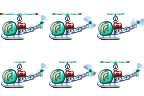
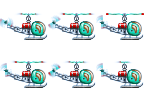
truck move added

diff --git a/src/view/gameScene/InGameView.java b/src/view/gameScene/InGameView.java
@@ -2,7 +2,12 @@ package view.gameScene;
 
 import controller.InGameController;
 import controller.MenuController;
+import javafx.animation.Animation;
+import javafx.animation.KeyFrame;
+import javafx.animation.KeyValue;
+import javafx.animation.Timeline;
 import javafx.geometry.Pos;
+import javafx.geometry.Rectangle2D;
 import javafx.scene.Group;
 import javafx.scene.Scene;
 import javafx.scene.image.Image;
@@ -51,7 +56,7 @@ public class InGameView extends Scene implements Time
     private void build() {
         root.getChildren().clear();
         root.getChildren().addAll(GameBackground.getInstance(), MapView.getInstance(), WarehouseScene.getInstance());
-        emptyWorkshopGraphic();
+//        emptyWorkshopGraphic();
         wellGraphic();
         warehouseGraphic();
         moneyGraphic();
@@ -114,7 +119,8 @@ public class InGameView extends Scene implements Time
         StackPane place6Pane = new StackPane();
         place6Pane.getChildren().addAll(place6);
         x = MainView.WIDTH - (MainView.WIDTH - place6.getImage().getWidth() * 2 + MainView.WIDTH / 3.4);
-        place6Pane.relocate(MainView.WIDTH - place6.getImage().getWidth() * 2 + x, MainView.HEIGHT / 1.6);
+        place6Pane.relocate(MainView.WIDTH - place6.getImage().getWidth() * 2 + x
+                , MainView.HEIGHT / 1.6);
         System.out.println("xxx" + (MainView.WIDTH - place6.getImage().getWidth() * 2 + MainView.WIDTH / 3.4));
         root.getChildren().addAll(place6Pane);
         place6Pane.setOnMouseClicked(event -> openWorkshopChoices(6));
@@ -296,4 +302,48 @@ public class InGameView extends Scene implements Time
 
 
     }
+
+    public void showTruckPath(){
+        ImageView truckView = new ImageView(Utility.getImage(AddressConstants.TRUCK_MINI_PICTURE_ROOT + Truck.getInstance().getLevel() + "_mini.png"));
+        truckView.setViewport(new Rectangle2D(0, 0, 48, 48));
+        truckView.setFitWidth(MainView.WIDTH / 20);
+        truckView.setFitHeight(MainView.HEIGHT / 20);
+        truckView.relocate(MainView.WIDTH * 0.75, MainView.HEIGHT / 35);
+        truckView.setScaleX(-1);
+        root.getChildren().addAll(truckView);
+        double end = MainView.WIDTH - MainView.WIDTH * 0.75 - 48;
+        KeyValue xForGoing = new KeyValue(truckView.xProperty(), end);
+        KeyFrame going = new KeyFrame(Duration.millis(2000), xForGoing);
+        Timeline timeLineGoing = new Timeline(going);
+        timeLineGoing.getKeyFrames().addAll(going);
+//        VehicleTimeLine(truck, turnToMoveObjectToCityAndComeBack, truckView, timeLineGoing);
+        timeLineGoing.play();
+
+//        truckView.setViewport(new Rectangle2D(0, 0, 48, 48));
+
+        Animation animation = new SpriteAnimation(truckView, Duration.millis(2000), 2, 2, 0, 0,
+                (int) (truckView.getImage().getWidth() /  2), (int) (truckView.getImage().getHeight()));
+        animation.setCycleCount(1);
+        animation.play();
+        animation.setOnFinished(event -> {
+            root.getChildren().removeAll(truckView);
+            truckView.relocate(MainView.WIDTH - 48, MainView.HEIGHT / 35);
+            truckView.setScaleX(1);
+            root.getChildren().addAll(truckView);
+            KeyValue xForGoing1 = new KeyValue(truckView.xProperty(), -MainView.WIDTH / 75);
+
+            KeyFrame going1 = new KeyFrame(Duration.millis(2000), xForGoing1);
+            Timeline timeLineGoing1 = new Timeline(going1);
+            timeLineGoing1.getKeyFrames().addAll(going1);
+            timeLineGoing1.play();
+
+            animation.setCycleCount(1);
+            animation.play();
+            animation.setOnFinished(event1 -> {
+                root.getChildren().removeAll(truckView);
+            });
+        });
+
+    }
+
 }

diff --git a/src/view/gameScene/GameBackground.java b/src/view/gameScene/GameBackground.java
@@ -28,17 +28,17 @@ public class GameBackground extends Pane implements Time {
     }
 
     private GameBackground() {
+        this.setHeight(MainView.HEIGHT);
+        this.setWidth(MainView.WIDTH);
+        System.out.println("hieghtttt = " + this.getWidth());
         build();
     }
 
     private void build() {
         setBackgroundStuff();
         setBuyAnimalButton();
-//        setWarehouse();
-//        setTruck();
-//        setWell();
         setUnderBar();
-//        setUpperBar();
+        setUpperBar();
     }
 
     private void setUpperBar() {
@@ -87,7 +87,7 @@ public class GameBackground extends Pane implements Time {
 
         StackPane underBarPane = new StackPane();
         underBarPane.getChildren().addAll(imageView);
-        underBarPane.relocate(0, MainView.HEIGHT - imageView.getImage().getHeight() * 0.8);
+        underBarPane.relocate(0, MainView.HEIGHT - imageView.getImage().getHeight() * 0.6);
         this.getChildren().addAll(underBarPane);
 
     }

diff --git a/src/view/gameScene/truck/TruckView.java b/src/view/gameScene/truck/TruckView.java
@@ -133,15 +133,13 @@ public class TruckView extends Pane {
 //        sendTruck.relocate(30, 10);
         sendTruck.relocate(MainView.WIDTH / 2 + 100, MainView.HEIGHT - 50);
         sendTruck.setOnMouseClicked(event ->{
-                InGameController.getInstance().sendTruck();
-//            ImageView imageView = new ImageView(Utility.getImage(AddressConstants.HELICOPTER_MINI_PICTURE_ROOT + Truck.getInstance().getLevel() + "_mini.png"));
-//            imageView.setFitWidth(MainView.WIDTH / 100);
-//            imageView.setFitHeight(MainView.HEIGHT / 100);
-//            SpriteAnimation spriteAnimation = new SpriteAnimation(imageView, Duration.millis(Truck.getInstance().))
-
+            InGameController.getInstance().sendTruck();
+            InGameView.getInstance().closeTruck();
+            InGameView.getInstance().showTruckPath();
         });
         getChildren().addAll(exit, sendTruck);
     }
+
 
     private void wallpaper() {
         Image background = null;

diff --git a/src/view/utility/AddressConstants.java b/src/view/utility/AddressConstants.java
@@ -34,7 +34,8 @@ public class AddressConstants
     public static final String MISSION_SCENE_ICON = MISSION_SCENE + "icon.png";
     public static final String MISSION_SCENE_TAB = MISSION_SCENE + "missionTab.png";
     public static final String NEW_PLAYER = GRAPHICS_ROOT + "newPlayer/back.png";
-        public static final String HELICOPTER_MINI_PICTURE_ROOT = GRAPHICS_ROOT + "UI/Helicopter/";
+    public static final String HELICOPTER_MINI_PICTURE_ROOT = GRAPHICS_ROOT + "UI/Helicopter/";
+    public static final String TRUCK_MINI_PICTURE_ROOT = GRAPHICS_ROOT + "UI/Truck/";
     public static final String PLACES_ROOT = GRAPHICS_ROOT + "UI/places/";
 
 

diff --git a/src/view/MainView.java b/src/view/MainView.java
@@ -75,10 +75,10 @@ public class MainView extends Application {
 
     private void setStageScene(Scene scene) {
         if (mainStage == null) throw new AssertionError();
-        mainStage.setX(0);
-        mainStage.setY(0);
-        mainStage.centerOnScreen();
+//        mainStage.setX(WIDTH / 2);
+//        mainStage.setY(0);
         mainStage.setScene(scene);
+//        mainStage.centerOnScreen();
         mainStage.setFullScreen(true);
     }
 
